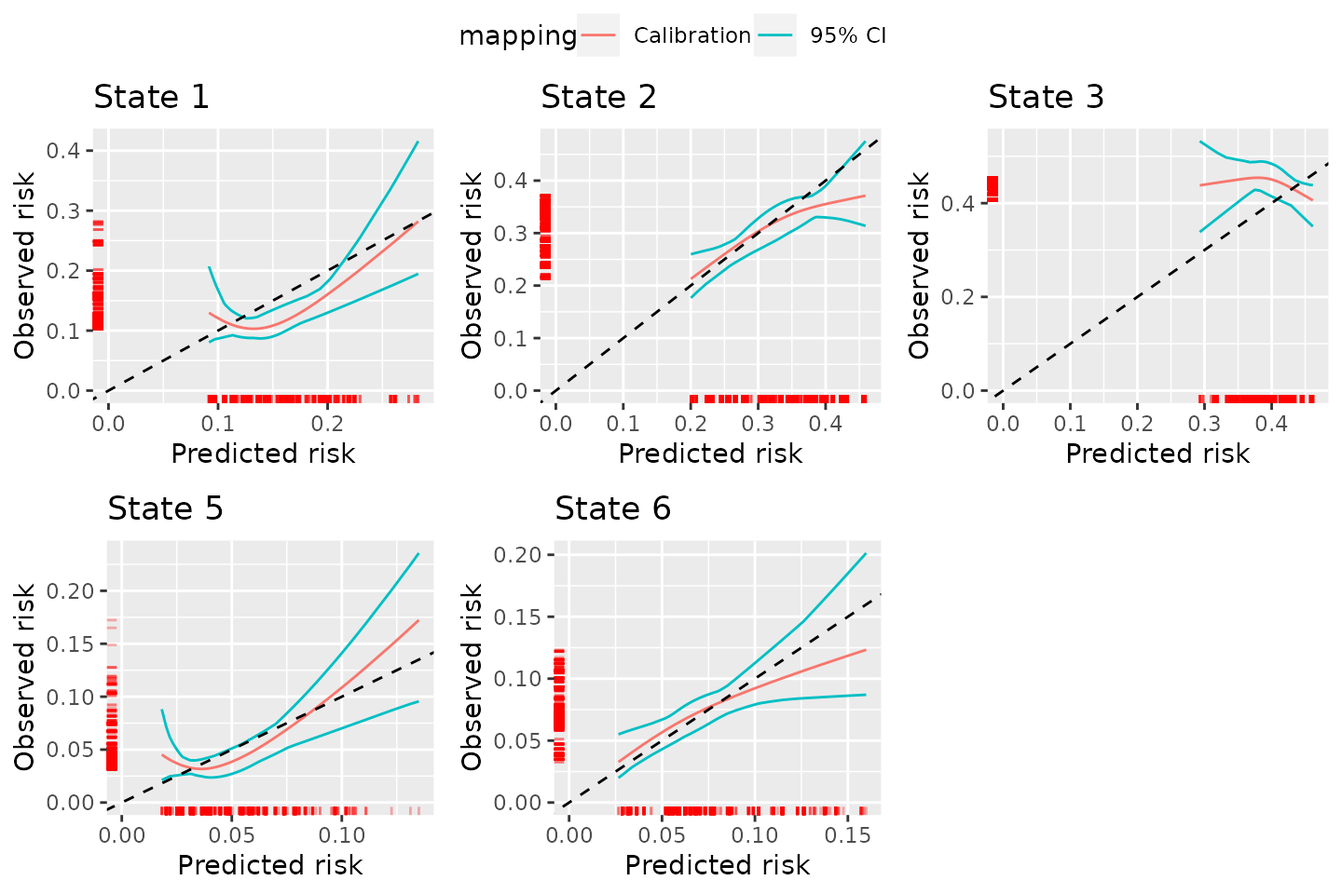
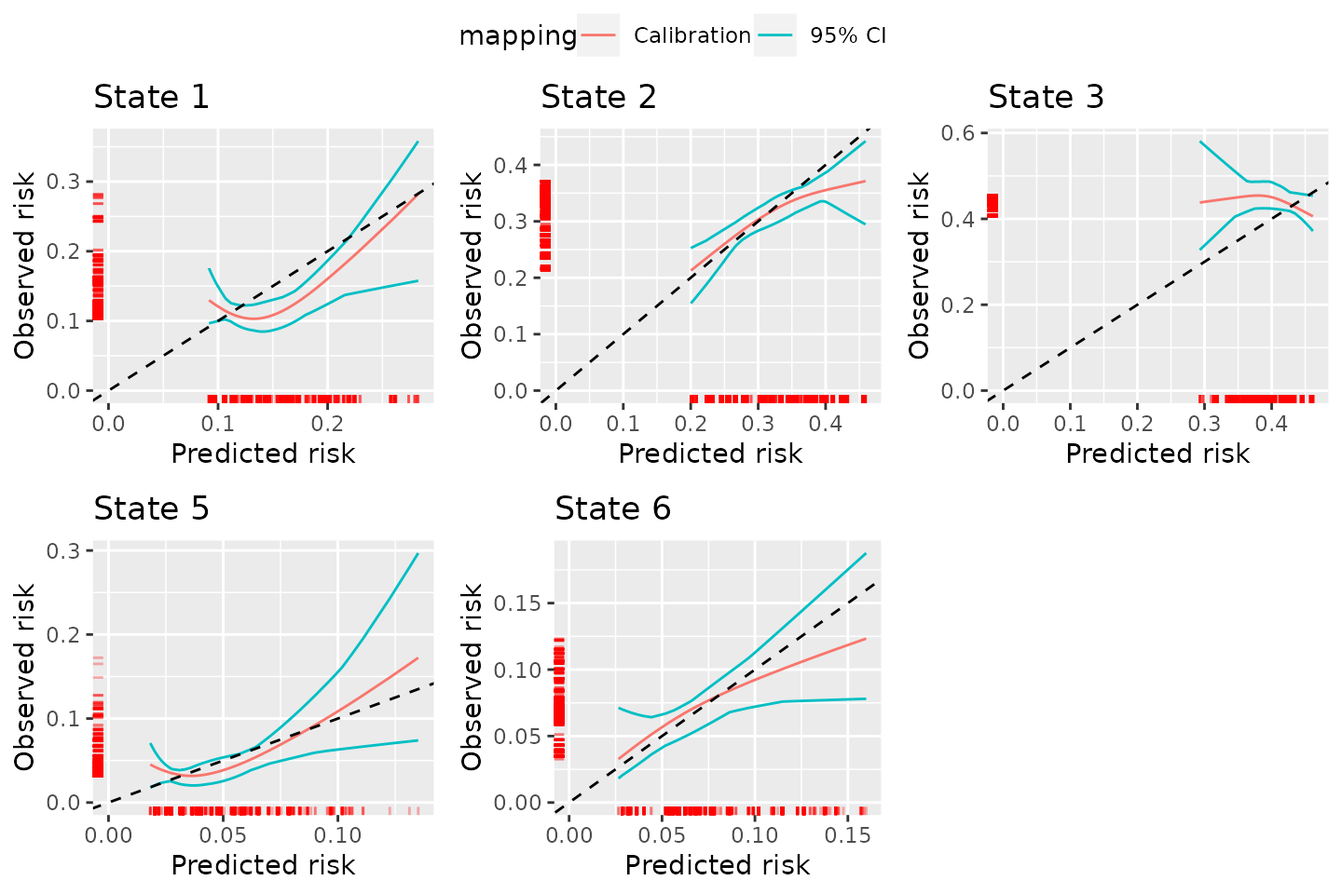
Deploying to gh-pages from @ alexpate30/calibmsm@ba9b57f66726ea3402ec926e26ee4958d6b47412 🚀

diff --git a/articles/Comparison-with-graphical-calibration-curves-in-competing-risks-setting.html b/articles/Comparison-with-graphical-calibration-curves-in-competing-risks-setting.html
@@ -220,7 +220,7 @@ the pseudo-value approach, implemented through
 <span>                 n.pctls <span class="op">=</span> <span class="fl">9</span>,</span>
 <span>                 CI <span class="op">=</span> <span class="fl">95</span>,</span>
 <span>                 CI.type <span class="op">=</span> <span class="st">"parametric"</span><span class="op">)</span></span>
-<span><span class="co">#&gt; [1] "Calculate pseudo values for state =  1 2023-06-08 09:50:20.334606"</span></span>
+<span><span class="co">#&gt; [1] "Calculate pseudo values for state =  1 2023-06-08 10:39:45.719683"</span></span>
 <span><span class="co">#&gt; Warning in mstate::probtrans(msfit.aj, predt = 0): Warning! Negative diagonal elements of (I+dA); the estimate may not be meaningful.</span></span>
 <span></span>
 <span><span class="co">#&gt; Warning in mstate::probtrans(msfit.aj, predt = 0): Warning! Negative diagonal elements of (I+dA); the estimate may not be meaningful.</span></span>
@@ -230,11 +230,11 @@ the pseudo-value approach, implemented through
 <span><span class="co">#&gt; Warning in mstate::probtrans(msfit.aj, predt = 0): Warning! Negative diagonal elements of (I+dA); the estimate may not be meaningful.</span></span>
 <span></span>
 <span><span class="co">#&gt; Warning in mstate::probtrans(msfit.aj, predt = 0): Warning! Negative diagonal elements of (I+dA); the estimate may not be meaningful.</span></span>
-<span><span class="co">#&gt; [1] "Calculate pseudo values for state =  2 2023-06-08 09:54:00.975044"</span></span>
-<span><span class="co">#&gt; [1] "Calculate pseudo values for state =  3 2023-06-08 09:57:41.864137"</span></span>
-<span><span class="co">#&gt; [1] "Calculate pseudo values for state =  5 2023-06-08 10:01:24.42295"</span></span>
+<span><span class="co">#&gt; [1] "Calculate pseudo values for state =  2 2023-06-08 10:43:39.914813"</span></span>
+<span><span class="co">#&gt; [1] "Calculate pseudo values for state =  3 2023-06-08 10:47:34.255154"</span></span>
+<span><span class="co">#&gt; [1] "Calculate pseudo values for state =  5 2023-06-08 10:51:32.279458"</span></span>
 <span><span class="co">#&gt; Warning in mstate::probtrans(msfit.aj, predt = 0): Warning! Negative diagonal elements of (I+dA); the estimate may not be meaningful.</span></span>
-<span><span class="co">#&gt; [1] "Calculate pseudo values for state =  6 2023-06-08 10:05:06.535349"</span></span>
+<span><span class="co">#&gt; [1] "Calculate pseudo values for state =  6 2023-06-08 10:55:27.41275"</span></span>
 <span></span>
 <span><span class="co">### Turn into plot and print</span></span>
 <span><span class="va">plot.calibmsm.pv</span> <span class="op">&lt;-</span> <span class="fu"><a href="https://rdrr.io/r/graphics/plot.default.html" class="external-link">plot</a></span><span class="op">(</span><span class="va">dat.calib.pv</span>, combine <span class="op">=</span> <span class="cn">TRUE</span>, nrow <span class="op">=</span> <span class="fl">2</span>, ncol <span class="op">=</span> <span class="fl">3</span><span class="op">)</span></span></code></pre></div>
@@ -255,131 +255,9 @@ starting state when using pseudo-values
 the graphical calibration curves approach of <span class="citation">Austin et al. (2022)</span>. A custom function is
 written to do this, which estimates the calibration curves and returns a
 list of plots using <code>ggplot2</code>.</p>
-<div class="sourceCode" id="cb6"><pre class="downlit sourceCode r">
-<code class="sourceCode R"><span><span class="va">calc.calib.gcc.mod</span> <span class="op">&lt;-</span> <span class="kw">function</span><span class="op">(</span><span class="va">data.mstate</span>, <span class="va">data.raw</span>, <span class="va">j</span>, <span class="va">s</span>, <span class="va">t.eval</span>, <span class="va">p.est</span>, <span class="va">nk</span> <span class="op">=</span> <span class="fl">3</span><span class="op">)</span><span class="op">{</span></span>
-<span></span>
-<span>        <span class="co"># data.mstate &lt;- msebmtcal.cmprsk</span></span>
-<span>        <span class="co"># data.raw &lt;- ebmtcal</span></span>
-<span>        <span class="co"># p.est &lt;- tp.cmprsk.j0[,paste("pstate", 1:6, sep = "")]</span></span>
-<span>        <span class="co"># j &lt;- 1</span></span>
-<span>        <span class="co"># s &lt;- 0</span></span>
-<span>        <span class="co"># t.eval &lt;- 1826</span></span>
-<span>        <span class="co"># nk &lt;- 3</span></span>
-<span></span>
-<span>  <span class="co">### Assign colnames to p.est</span></span>
-<span>  <span class="fu"><a href="https://rdrr.io/r/base/colnames.html" class="external-link">colnames</a></span><span class="op">(</span><span class="va">p.est</span><span class="op">)</span> <span class="op">&lt;-</span> <span class="fu"><a href="https://rdrr.io/r/base/paste.html" class="external-link">paste</a></span><span class="op">(</span><span class="st">"p.est"</span>, <span class="fl">1</span><span class="op">:</span><span class="fu"><a href="https://rdrr.io/r/base/nrow.html" class="external-link">ncol</a></span><span class="op">(</span><span class="va">p.est</span><span class="op">)</span>, sep <span class="op">=</span> <span class="st">""</span><span class="op">)</span></span>
-<span></span>
-<span>  <span class="co">### Extract what states an individual can move into from state j (states with a non-zero predicted risk)</span></span>
-<span>  <span class="co">### Also drop the staet that an individual is already in, because there is no cmprsk model for staying in the same state</span></span>
-<span>  <span class="va">valid.transitions</span> <span class="op">&lt;-</span> <span class="fu"><a href="https://rdrr.io/r/base/which.html" class="external-link">which</a></span><span class="op">(</span><span class="fu"><a href="https://rdrr.io/r/base/colSums.html" class="external-link">colSums</a></span><span class="op">(</span><span class="va">p.est</span><span class="op">)</span> <span class="op">!=</span> <span class="fl">0</span><span class="op">)</span></span>
-<span>  <span class="va">valid.transitions</span> <span class="op">&lt;-</span> <span class="va">valid.transitions</span><span class="op">[</span><span class="op">-</span><span class="op">(</span><span class="va">valid.transitions</span> <span class="op">==</span> <span class="va">j</span><span class="op">)</span><span class="op">]</span></span>
-<span></span>
-<span>  <span class="co">### Add the predicted risks, and the complementary log log transormation of the predicted risks to data.raw</span></span>
-<span>  <span class="va">p.est.cll</span> <span class="op">&lt;-</span> <span class="fu"><a href="https://rdrr.io/r/base/Log.html" class="external-link">log</a></span><span class="op">(</span><span class="op">-</span><span class="fu"><a href="https://rdrr.io/r/base/Log.html" class="external-link">log</a></span><span class="op">(</span><span class="fl">1</span> <span class="op">-</span> <span class="va">p.est</span><span class="op">[</span>,<span class="va">valid.transitions</span><span class="op">]</span><span class="op">)</span><span class="op">)</span></span>
-<span>  <span class="fu"><a href="https://rdrr.io/r/base/colnames.html" class="external-link">colnames</a></span><span class="op">(</span><span class="va">p.est.cll</span><span class="op">)</span> <span class="op">&lt;-</span> <span class="fu"><a href="https://rdrr.io/r/base/paste.html" class="external-link">paste</a></span><span class="op">(</span><span class="st">"p.est.cll"</span>, <span class="va">valid.transitions</span>, sep <span class="op">=</span> <span class="st">""</span><span class="op">)</span></span>
-<span></span>
-<span>  <span class="co">### Identify individuals who are in state j at time s</span></span>
-<span>  <span class="va">ids.state.j</span> <span class="op">&lt;-</span> <span class="fu">base</span><span class="fu">::</span><span class="fu"><a href="https://rdrr.io/r/base/subset.html" class="external-link">subset</a></span><span class="op">(</span><span class="va">data.mstate</span>, <span class="va">from</span> <span class="op">==</span> <span class="va">j</span> <span class="op">&amp;</span> <span class="va">Tstart</span> <span class="op">&lt;=</span> <span class="va">s</span> <span class="op">&amp;</span> <span class="va">s</span> <span class="op">&lt;</span> <span class="va">Tstop</span><span class="op">)</span> <span class="op">|&gt;</span></span>
-<span>    <span class="fu">dplyr</span><span class="fu">::</span><span class="fu"><a href="https://dplyr.tidyverse.org/reference/select.html" class="external-link">select</a></span><span class="op">(</span><span class="va">id</span><span class="op">)</span> <span class="op">|&gt;</span></span>
-<span>    <span class="fu">dplyr</span><span class="fu">::</span><span class="fu"><a href="https://dplyr.tidyverse.org/reference/distinct.html" class="external-link">distinct</a></span><span class="op">(</span><span class="va">id</span><span class="op">)</span> <span class="op">|&gt;</span></span>
-<span>    <span class="fu">dplyr</span><span class="fu">::</span><span class="fu"><a href="https://dplyr.tidyverse.org/reference/pull.html" class="external-link">pull</a></span><span class="op">(</span><span class="va">id</span><span class="op">)</span></span>
-<span></span>
-<span>  <span class="co">### Subset data.mstate and data.raw to these individuals.</span></span>
-<span>  <span class="va">data.mstate</span> <span class="op">&lt;-</span> <span class="va">data.mstate</span> <span class="op">|&gt;</span> <span class="fu">base</span><span class="fu">::</span><span class="fu"><a href="https://rdrr.io/r/base/subset.html" class="external-link">subset</a></span><span class="op">(</span><span class="va">id</span> <span class="op"><a href="https://rdrr.io/r/base/match.html" class="external-link">%in%</a></span> <span class="va">ids.state.j</span><span class="op">)</span></span>
-<span>  <span class="va">data.raw</span> <span class="op">&lt;-</span> <span class="va">data.raw</span> <span class="op">|&gt;</span> <span class="fu">base</span><span class="fu">::</span><span class="fu"><a href="https://rdrr.io/r/base/subset.html" class="external-link">subset</a></span><span class="op">(</span><span class="va">id</span> <span class="op"><a href="https://rdrr.io/r/base/match.html" class="external-link">%in%</a></span> <span class="va">ids.state.j</span><span class="op">)</span></span>
-<span></span>
-<span>  <span class="co">### Add the cloglog risks and predicted risks to the landmark dataset</span></span>
-<span>  <span class="va">data.raw</span> <span class="op">&lt;-</span> <span class="fu"><a href="https://rdrr.io/r/base/cbind.html" class="external-link">cbind</a></span><span class="op">(</span><span class="va">data.raw</span>, <span class="va">p.est</span><span class="op">[</span>,<span class="va">valid.transitions</span><span class="op">]</span>, <span class="va">p.est.cll</span><span class="op">)</span></span>
-<span></span>
-<span>  <span class="co">### Finally, identify individuals which are censored before experiencing any events (used to maniuplate data for Fine-Gray regression later)</span></span>
-<span>  <span class="va">ids.cens</span>  <span class="op">&lt;-</span> <span class="va">data.mstate</span> <span class="op">|&gt;</span> <span class="fu">base</span><span class="fu">::</span><span class="fu"><a href="https://rdrr.io/r/base/subset.html" class="external-link">subset</a></span><span class="op">(</span><span class="va">from</span> <span class="op">==</span> <span class="va">j</span><span class="op">)</span> <span class="op">|&gt;</span> <span class="fu">dplyr</span><span class="fu">::</span><span class="fu"><a href="https://dplyr.tidyverse.org/reference/group_by.html" class="external-link">group_by</a></span><span class="op">(</span><span class="va">id</span><span class="op">)</span> <span class="op">|&gt;</span> <span class="fu">dplyr</span><span class="fu">::</span><span class="fu"><a href="https://dplyr.tidyverse.org/reference/summarise.html" class="external-link">summarize</a></span><span class="op">(</span>sum <span class="op">=</span> <span class="fu"><a href="https://rdrr.io/r/base/sum.html" class="external-link">sum</a></span><span class="op">(</span><span class="va">status</span><span class="op">)</span><span class="op">)</span> <span class="op">|&gt;</span> <span class="fu">base</span><span class="fu">::</span><span class="fu"><a href="https://rdrr.io/r/base/subset.html" class="external-link">subset</a></span><span class="op">(</span><span class="va">sum</span> <span class="op">==</span> <span class="fl">0</span><span class="op">)</span> <span class="op">|&gt;</span> <span class="fu">dplyr</span><span class="fu">::</span><span class="fu"><a href="https://dplyr.tidyverse.org/reference/pull.html" class="external-link">pull</a></span><span class="op">(</span><span class="va">id</span><span class="op">)</span></span>
-<span></span>
-<span>  <span class="co">###</span></span>
-<span>  <span class="co">### Produce calibration plots for each possible transition</span></span>
-<span>  <span class="co">###</span></span>
-<span></span>
-<span>  <span class="co">### Start by creating a list to store the plots</span></span>
-<span>  <span class="va">plots.list</span> <span class="op">&lt;-</span> <span class="fu"><a href="https://rdrr.io/r/base/vector.html" class="external-link">vector</a></span><span class="op">(</span><span class="st">"list"</span>, <span class="fu"><a href="https://rdrr.io/r/base/length.html" class="external-link">length</a></span><span class="op">(</span><span class="va">valid.transitions</span><span class="op">)</span><span class="op">)</span></span>
-<span></span>
-<span>  <span class="kw">for</span> <span class="op">(</span><span class="va">k</span> <span class="kw">in</span> <span class="fl">1</span><span class="op">:</span><span class="fu"><a href="https://rdrr.io/r/base/length.html" class="external-link">length</a></span><span class="op">(</span><span class="va">valid.transitions</span><span class="op">)</span><span class="op">)</span><span class="op">{</span></span>
-<span></span>
-<span>    <span class="co">### Assign state.k</span></span>
-<span>    <span class="va">state.k</span> <span class="op">&lt;-</span> <span class="fu"><a href="https://rdrr.io/r/base/numeric.html" class="external-link">as.numeric</a></span><span class="op">(</span><span class="va">valid.transitions</span><span class="op">[</span><span class="va">k</span><span class="op">]</span><span class="op">)</span></span>
-<span></span>
-<span>    <span class="co">### Create restricted cubic splines for the cloglog of the linear predictor for the state of interst</span></span>
-<span>    <span class="va">rcs.mat</span> <span class="op">&lt;-</span> <span class="fu">Hmisc</span><span class="fu">::</span><span class="fu"><a href="https://rdrr.io/pkg/Hmisc/man/rcspline.eval.html" class="external-link">rcspline.eval</a></span><span class="op">(</span><span class="va">data.raw</span><span class="op">[</span>,<span class="fu"><a href="https://rdrr.io/r/base/paste.html" class="external-link">paste</a></span><span class="op">(</span><span class="st">"p.est.cll"</span>, <span class="va">state.k</span>, sep <span class="op">=</span> <span class="st">""</span><span class="op">)</span><span class="op">]</span>,nk<span class="op">=</span><span class="va">nk</span>,inclx<span class="op">=</span><span class="cn">T</span><span class="op">)</span></span>
-<span>    <span class="fu"><a href="https://rdrr.io/r/base/colnames.html" class="external-link">colnames</a></span><span class="op">(</span><span class="va">rcs.mat</span><span class="op">)</span> <span class="op">&lt;-</span> <span class="fu"><a href="https://rdrr.io/r/base/paste.html" class="external-link">paste</a></span><span class="op">(</span><span class="st">"rcs.x"</span>, <span class="fl">1</span><span class="op">:</span><span class="fu"><a href="https://rdrr.io/r/base/nrow.html" class="external-link">ncol</a></span><span class="op">(</span><span class="va">rcs.mat</span><span class="op">)</span>, sep <span class="op">=</span> <span class="st">""</span><span class="op">)</span></span>
-<span>    <span class="va">knots</span> <span class="op">&lt;-</span> <span class="fu"><a href="https://rdrr.io/r/base/attr.html" class="external-link">attr</a></span><span class="op">(</span><span class="va">rcs.mat</span>,<span class="st">"knots"</span><span class="op">)</span></span>
-<span></span>
-<span>    <span class="co">### Create a new dataframe for the validation, to avoid recurison with data.raw</span></span>
-<span>    <span class="co">### Add the cubic splines for thecomplementary loglog of the predicted probability, and the predicted probability itself</span></span>
-<span>    <span class="va">valid.df</span> <span class="op">&lt;-</span> <span class="fu"><a href="https://rdrr.io/r/base/data.frame.html" class="external-link">data.frame</a></span><span class="op">(</span><span class="va">data.raw</span><span class="op">$</span><span class="va">id</span>, <span class="va">data.raw</span><span class="op">[</span>,<span class="fu"><a href="https://rdrr.io/r/base/paste.html" class="external-link">paste</a></span><span class="op">(</span><span class="st">"p.est"</span>, <span class="va">state.k</span>, sep <span class="op">=</span> <span class="st">""</span><span class="op">)</span><span class="op">]</span>, <span class="va">rcs.mat</span><span class="op">)</span></span>
-<span>    <span class="fu"><a href="https://rdrr.io/r/base/colnames.html" class="external-link">colnames</a></span><span class="op">(</span><span class="va">valid.df</span><span class="op">)</span> <span class="op">&lt;-</span> <span class="fu"><a href="https://rdrr.io/r/base/c.html" class="external-link">c</a></span><span class="op">(</span><span class="st">"id"</span>, <span class="st">"pred"</span>, <span class="fu"><a href="https://rdrr.io/r/base/colnames.html" class="external-link">colnames</a></span><span class="op">(</span><span class="va">rcs.mat</span><span class="op">)</span><span class="op">)</span></span>
-<span></span>
-<span>    <span class="co">### Want to validate the competing risks model out of state j at time s, into state k, so remove individuals not in state k at time s,</span></span>
-<span>    <span class="co">### and only retain transitions into state k. Also deduct immortal time from time variable</span></span>
-<span>    <span class="va">data.mstate.j.k.s</span> <span class="op">&lt;-</span> <span class="fu">base</span><span class="fu">::</span><span class="fu"><a href="https://rdrr.io/r/base/subset.html" class="external-link">subset</a></span><span class="op">(</span><span class="va">data.mstate</span>, <span class="va">from</span> <span class="op">==</span> <span class="va">j</span> <span class="op">&amp;</span> <span class="va">to</span> <span class="op">==</span> <span class="va">state.k</span> <span class="op">&amp;</span> <span class="va">Tstart</span> <span class="op">&lt;=</span> <span class="va">s</span> <span class="op">&amp;</span> <span class="va">s</span> <span class="op">&lt;</span> <span class="va">Tstop</span><span class="op">)</span> <span class="op">|&gt;</span></span>
-<span>      <span class="fu">dplyr</span><span class="fu">::</span><span class="fu"><a href="https://dplyr.tidyverse.org/reference/mutate.html" class="external-link">mutate</a></span><span class="op">(</span>time <span class="op">=</span> <span class="va">Tstop</span> <span class="op">-</span> <span class="va">s</span><span class="op">)</span> <span class="op">|&gt;</span></span>
-<span>      <span class="fu">dplyr</span><span class="fu">::</span><span class="fu"><a href="https://dplyr.tidyverse.org/reference/select.html" class="external-link">select</a></span><span class="op">(</span><span class="fu"><a href="https://rdrr.io/r/base/c.html" class="external-link">c</a></span><span class="op">(</span><span class="va">time</span>, <span class="va">status</span><span class="op">)</span><span class="op">)</span></span>
-<span></span>
-<span>    <span class="co">### Add to valid.df</span></span>
-<span>    <span class="va">valid.df</span> <span class="op">&lt;-</span> <span class="fu"><a href="https://rdrr.io/r/base/cbind.html" class="external-link">cbind</a></span><span class="op">(</span><span class="va">valid.df</span>, <span class="va">data.mstate.j.k.s</span><span class="op">)</span></span>
-<span></span>
-<span>    <span class="co">### For individuals who do not have the event of interest, and also are not censored (i.e. they have a different competing event),</span></span>
-<span>    <span class="co">### set the follow up time to the maximum</span></span>
-<span>    <span class="va">valid.df</span> <span class="op">&lt;-</span> <span class="fu">dplyr</span><span class="fu">::</span><span class="fu"><a href="https://dplyr.tidyverse.org/reference/mutate.html" class="external-link">mutate</a></span><span class="op">(</span><span class="va">valid.df</span>, time <span class="op">=</span> <span class="fu">dplyr</span><span class="fu">::</span><span class="fu"><a href="https://dplyr.tidyverse.org/reference/case_when.html" class="external-link">case_when</a></span><span class="op">(</span><span class="va">status</span> <span class="op">==</span> <span class="fl">0</span> <span class="op">&amp;</span> <span class="op">!</span><span class="op">(</span><span class="va">id</span> <span class="op"><a href="https://rdrr.io/r/base/match.html" class="external-link">%in%</a></span> <span class="va">ids.cens</span><span class="op">)</span> <span class="op">~</span> <span class="fu"><a href="https://rdrr.io/r/base/Extremes.html" class="external-link">max</a></span><span class="op">(</span><span class="va">time</span><span class="op">)</span>,</span>
-<span>                                                  <span class="cn">TRUE</span> <span class="op">~</span> <span class="va">time</span><span class="op">)</span><span class="op">)</span></span>
-<span></span>
-<span>    <span class="co">### Create dataset to fit the recalibration model of Austin et al (Graphical calibration curves, BMC Diagnostic and Prognostic, DOI10.1186/s41512-021-00114-6)</span></span>
-<span>    <span class="va">valid.df.crprep</span> <span class="op">&lt;-</span> <span class="fu">mstate</span><span class="fu">::</span><span class="fu"><a href="https://rdrr.io/pkg/mstate/man/crprep.default.html" class="external-link">crprep</a></span><span class="op">(</span>Tstop<span class="op">=</span><span class="st">'time'</span>,status<span class="op">=</span><span class="st">'status'</span>,trans<span class="op">=</span><span class="fl">1</span>,</span>
-<span>                              keep<span class="op">=</span><span class="fu"><a href="https://rdrr.io/r/base/colnames.html" class="external-link">colnames</a></span><span class="op">(</span><span class="va">rcs.mat</span><span class="op">)</span>,<span class="va">valid.df</span><span class="op">)</span></span>
-<span></span>
-<span>    <span class="co">### Create formula and fit the Fine-Gray recalibration model</span></span>
-<span>    <span class="va">eq.LHS</span> <span class="op">&lt;-</span> <span class="fu"><a href="https://rdrr.io/r/base/paste.html" class="external-link">paste</a></span><span class="op">(</span><span class="st">"survival::Surv(Tstart,Tstop,status==1)~"</span><span class="op">)</span></span>
-<span>    <span class="va">eq.RHS</span> <span class="op">&lt;-</span> <span class="fu"><a href="https://rdrr.io/r/base/paste.html" class="external-link">paste</a></span><span class="op">(</span><span class="st">"rcs.x"</span>, <span class="fl">1</span><span class="op">:</span><span class="fu"><a href="https://rdrr.io/r/base/nrow.html" class="external-link">ncol</a></span><span class="op">(</span><span class="va">rcs.mat</span><span class="op">)</span>, sep <span class="op">=</span> <span class="st">""</span>, collapse <span class="op">=</span> <span class="st">"+"</span><span class="op">)</span></span>
-<span>    <span class="va">eq</span> <span class="op">&lt;-</span> <span class="fu"><a href="https://rdrr.io/r/stats/formula.html" class="external-link">formula</a></span><span class="op">(</span><span class="fu"><a href="https://rdrr.io/r/base/paste.html" class="external-link">paste</a></span><span class="op">(</span><span class="va">eq.LHS</span>, <span class="va">eq.RHS</span>, sep <span class="op">=</span> <span class="st">""</span><span class="op">)</span><span class="op">)</span></span>
-<span>    <span class="va">model.calibrate.fg</span> <span class="op">&lt;-</span> <span class="fu">rms</span><span class="fu">::</span><span class="fu"><a href="https://rdrr.io/pkg/rms/man/cph.html" class="external-link">cph</a></span><span class="op">(</span><span class="va">eq</span>,weights<span class="op">=</span><span class="va">weight.cens</span>,x<span class="op">=</span><span class="cn">T</span>,y<span class="op">=</span><span class="cn">T</span>,surv<span class="op">=</span><span class="cn">T</span>,data<span class="op">=</span><span class="va">valid.df.crprep</span><span class="op">)</span></span>
-<span></span>
-<span>    <span class="co">### Generate predicted probabilities and standard errors</span></span>
-<span>    <span class="va">valid.df</span><span class="op">$</span><span class="va">obs.fg</span> <span class="op">&lt;-</span> <span class="fl">1</span><span class="op">-</span><span class="fu">rms</span><span class="fu">::</span><span class="fu"><a href="https://rdrr.io/pkg/rms/man/survest.cph.html" class="external-link">survest</a></span><span class="op">(</span><span class="va">model.calibrate.fg</span>,newdata<span class="op">=</span><span class="va">valid.df.crprep</span>,time<span class="op">=</span><span class="va">t.eval</span><span class="op">-</span><span class="va">s</span><span class="op">)</span><span class="op">$</span><span class="va">surv</span></span>
-<span>    <span class="va">valid.df</span><span class="op">$</span><span class="va">obs.fg.upper</span><span class="op">&lt;-</span><span class="fl">1</span><span class="op">-</span><span class="fu">rms</span><span class="fu">::</span><span class="fu"><a href="https://rdrr.io/pkg/rms/man/survest.cph.html" class="external-link">survest</a></span><span class="op">(</span><span class="va">model.calibrate.fg</span>,newdata<span class="op">=</span><span class="va">valid.df.crprep</span>,time<span class="op">=</span><span class="va">t.eval</span><span class="op">-</span><span class="va">s</span><span class="op">)</span><span class="op">$</span><span class="va">lower</span></span>
-<span>    <span class="va">valid.df</span><span class="op">$</span><span class="va">obs.fg.lower</span><span class="op">&lt;-</span><span class="fl">1</span><span class="op">-</span><span class="fu">rms</span><span class="fu">::</span><span class="fu"><a href="https://rdrr.io/pkg/rms/man/survest.cph.html" class="external-link">survest</a></span><span class="op">(</span><span class="va">model.calibrate.fg</span>,newdata<span class="op">=</span><span class="va">valid.df.crprep</span>,time<span class="op">=</span><span class="va">t.eval</span><span class="op">-</span><span class="va">s</span><span class="op">)</span><span class="op">$</span><span class="va">upper</span></span>
-<span></span>
-<span>    <span class="co">### Produce plots for each and store in a list</span></span>
-<span></span>
-<span>    <span class="co">### Pivot longer to create data for ggplot and assign appropriate labels</span></span>
-<span>    <span class="va">valid.df.longer</span> <span class="op">&lt;-</span> <span class="fu">tidyr</span><span class="fu">::</span><span class="fu"><a href="https://tidyr.tidyverse.org/reference/pivot_longer.html" class="external-link">pivot_longer</a></span><span class="op">(</span><span class="va">valid.df</span>, cols <span class="op">=</span> <span class="fu"><a href="https://rdrr.io/r/base/c.html" class="external-link">c</a></span><span class="op">(</span><span class="va">obs.fg</span>, <span class="va">obs.fg.upper</span>, <span class="va">obs.fg.lower</span><span class="op">)</span>, names_to <span class="op">=</span> <span class="st">"line.group"</span><span class="op">)</span></span>
-<span>    <span class="va">valid.df.longer</span> <span class="op">&lt;-</span> <span class="fu">dplyr</span><span class="fu">::</span><span class="fu"><a href="https://dplyr.tidyverse.org/reference/mutate.html" class="external-link">mutate</a></span><span class="op">(</span><span class="va">valid.df.longer</span>,</span>
-<span>                              line.group <span class="op">=</span> <span class="fu"><a href="https://rdrr.io/r/base/factor.html" class="external-link">factor</a></span><span class="op">(</span><span class="va">line.group</span><span class="op">)</span>,</span>
-<span>                              mapping <span class="op">=</span> <span class="fu">dplyr</span><span class="fu">::</span><span class="fu"><a href="https://dplyr.tidyverse.org/reference/case_when.html" class="external-link">case_when</a></span><span class="op">(</span><span class="va">line.group</span> <span class="op">==</span> <span class="st">"obs.fg"</span> <span class="op">~</span> <span class="fl">1</span>,</span>
-<span>                                                  <span class="va">line.group</span> <span class="op"><a href="https://rdrr.io/r/base/match.html" class="external-link">%in%</a></span> <span class="fu"><a href="https://rdrr.io/r/base/c.html" class="external-link">c</a></span><span class="op">(</span><span class="st">"obs.fg.upper"</span>, <span class="st">"obs.fg.lower"</span><span class="op">)</span> <span class="op">~</span> <span class="fl">2</span><span class="op">)</span>,</span>
-<span>                              mapping <span class="op">=</span> <span class="fu"><a href="https://rdrr.io/r/base/factor.html" class="external-link">factor</a></span><span class="op">(</span><span class="va">mapping</span><span class="op">)</span><span class="op">)</span></span>
-<span></span>
-<span>    <span class="fu"><a href="https://rdrr.io/r/base/levels.html" class="external-link">levels</a></span><span class="op">(</span><span class="va">valid.df.longer</span><span class="op">$</span><span class="va">line.group</span><span class="op">)</span> <span class="op">&lt;-</span> <span class="fu"><a href="https://rdrr.io/r/base/c.html" class="external-link">c</a></span><span class="op">(</span><span class="st">"Calibration"</span>, <span class="st">"Upper"</span>, <span class="st">"Lower"</span><span class="op">)</span></span>
-<span>    <span class="fu"><a href="https://rdrr.io/r/base/levels.html" class="external-link">levels</a></span><span class="op">(</span><span class="va">valid.df.longer</span><span class="op">$</span><span class="va">mapping</span><span class="op">)</span> <span class="op">&lt;-</span> <span class="fu"><a href="https://rdrr.io/r/base/c.html" class="external-link">c</a></span><span class="op">(</span><span class="st">"Calibration"</span>, <span class="st">"95% CI"</span><span class="op">)</span></span>
-<span></span>
-<span>    <span class="co">### Create the plot</span></span>
-<span>    <span class="va">plots.list</span><span class="op">[[</span><span class="va">k</span><span class="op">]</span><span class="op">]</span> <span class="op">&lt;-</span> <span class="fu">ggplot2</span><span class="fu">::</span><span class="fu"><a href="https://ggplot2.tidyverse.org/reference/ggplot.html" class="external-link">ggplot</a></span><span class="op">(</span>data <span class="op">=</span> <span class="va">valid.df.longer</span> <span class="op">|&gt;</span> <span class="fu">dplyr</span><span class="fu">::</span><span class="fu"><a href="https://dplyr.tidyverse.org/reference/arrange.html" class="external-link">arrange</a></span><span class="op">(</span><span class="va">pred</span><span class="op">)</span> <span class="op">|&gt;</span> <span class="fu">dplyr</span><span class="fu">::</span><span class="fu"><a href="https://dplyr.tidyverse.org/reference/select.html" class="external-link">select</a></span><span class="op">(</span><span class="va">id</span>, <span class="va">pred</span>, <span class="va">line.group</span>, <span class="va">value</span>, <span class="va">mapping</span><span class="op">)</span><span class="op">)</span> <span class="op">+</span></span>
-<span>      <span class="fu">ggplot2</span><span class="fu">::</span><span class="fu"><a href="https://ggplot2.tidyverse.org/reference/geom_path.html" class="external-link">geom_line</a></span><span class="op">(</span><span class="fu">ggplot2</span><span class="fu">::</span><span class="fu"><a href="https://ggplot2.tidyverse.org/reference/aes.html" class="external-link">aes</a></span><span class="op">(</span>x <span class="op">=</span> <span class="va">pred</span>, y <span class="op">=</span> <span class="va">value</span>, group <span class="op">=</span> <span class="va">line.group</span>, color <span class="op">=</span> <span class="va">mapping</span><span class="op">)</span><span class="op">)</span> <span class="op">+</span></span>
-<span>      <span class="fu">ggplot2</span><span class="fu">::</span><span class="fu"><a href="https://ggplot2.tidyverse.org/reference/geom_abline.html" class="external-link">geom_abline</a></span><span class="op">(</span>intercept <span class="op">=</span> <span class="fl">0</span>, slope <span class="op">=</span> <span class="fl">1</span>, linetype <span class="op">=</span> <span class="st">"dashed"</span><span class="op">)</span> <span class="op">+</span></span>
-<span>      <span class="fu">ggplot2</span><span class="fu">::</span><span class="fu"><a href="https://ggplot2.tidyverse.org/reference/labs.html" class="external-link">xlab</a></span><span class="op">(</span><span class="st">"Predicted risk"</span><span class="op">)</span> <span class="op">+</span> <span class="fu">ggplot2</span><span class="fu">::</span><span class="fu"><a href="https://ggplot2.tidyverse.org/reference/labs.html" class="external-link">ylab</a></span><span class="op">(</span><span class="st">"Observed risk"</span><span class="op">)</span> <span class="op">+</span></span>
-<span>      <span class="fu">ggplot2</span><span class="fu">::</span><span class="fu"><a href="https://ggplot2.tidyverse.org/reference/lims.html" class="external-link">xlim</a></span><span class="op">(</span><span class="fu"><a href="https://rdrr.io/r/base/c.html" class="external-link">c</a></span><span class="op">(</span><span class="fl">0</span>, <span class="fu"><a href="https://rdrr.io/r/base/Extremes.html" class="external-link">max</a></span><span class="op">(</span><span class="va">valid.df.longer</span><span class="op">$</span><span class="va">pred</span>,</span>
-<span>                    <span class="va">valid.df.longer</span><span class="op">$</span><span class="va">value</span><span class="op">)</span><span class="op">)</span><span class="op">)</span> <span class="op">+</span></span>
-<span>      <span class="fu">ggplot2</span><span class="fu">::</span><span class="fu"><a href="https://ggplot2.tidyverse.org/reference/lims.html" class="external-link">ylim</a></span><span class="op">(</span><span class="fu"><a href="https://rdrr.io/r/base/c.html" class="external-link">c</a></span><span class="op">(</span><span class="fl">0</span>, <span class="fu"><a href="https://rdrr.io/r/base/Extremes.html" class="external-link">max</a></span><span class="op">(</span><span class="va">valid.df.longer</span><span class="op">$</span><span class="va">pred</span>,</span>
-<span>                    <span class="va">valid.df.longer</span><span class="op">$</span><span class="va">value</span><span class="op">)</span><span class="op">)</span><span class="op">)</span> <span class="op">+</span></span>
-<span>      <span class="fu">ggplot2</span><span class="fu">::</span><span class="fu"><a href="https://ggplot2.tidyverse.org/reference/geom_rug.html" class="external-link">geom_rug</a></span><span class="op">(</span>data <span class="op">=</span> <span class="va">valid.df.longer</span> <span class="op">|&gt;</span> <span class="fu">dplyr</span><span class="fu">::</span><span class="fu"><a href="https://dplyr.tidyverse.org/reference/arrange.html" class="external-link">arrange</a></span><span class="op">(</span><span class="va">pred</span><span class="op">)</span> <span class="op">|&gt;</span> <span class="fu">dplyr</span><span class="fu">::</span><span class="fu"><a href="https://dplyr.tidyverse.org/reference/select.html" class="external-link">select</a></span><span class="op">(</span><span class="va">id</span>, <span class="va">pred</span>, <span class="va">line.group</span>, <span class="va">value</span>, <span class="va">mapping</span><span class="op">)</span> <span class="op">|&gt;</span> <span class="fu">base</span><span class="fu">::</span><span class="fu"><a href="https://rdrr.io/r/base/subset.html" class="external-link">subset</a></span><span class="op">(</span><span class="va">line.group</span> <span class="op">==</span> <span class="st">"Calibration"</span><span class="op">)</span>,</span>
-<span>                        <span class="fu">ggplot2</span><span class="fu">::</span><span class="fu"><a href="https://ggplot2.tidyverse.org/reference/aes.html" class="external-link">aes</a></span><span class="op">(</span>x <span class="op">=</span> <span class="va">pred</span>, y <span class="op">=</span> <span class="va">value</span><span class="op">)</span>, col <span class="op">=</span> <span class="fu">grDevices</span><span class="fu">::</span><span class="fu"><a href="https://rdrr.io/r/grDevices/rgb.html" class="external-link">rgb</a></span><span class="op">(</span><span class="fl">1</span>, <span class="fl">0</span>, <span class="fl">0</span>, alpha <span class="op">=</span> <span class="fl">.1</span><span class="op">)</span><span class="op">)</span> <span class="op">+</span></span>
-<span>      <span class="fu">ggplot2</span><span class="fu">::</span><span class="fu"><a href="https://ggplot2.tidyverse.org/reference/theme.html" class="external-link">theme</a></span><span class="op">(</span>legend.position <span class="op">=</span> <span class="st">"none"</span><span class="op">)</span> <span class="op">+</span></span>
-<span>      <span class="fu">ggplot2</span><span class="fu">::</span><span class="fu"><a href="https://ggplot2.tidyverse.org/reference/labs.html" class="external-link">ggtitle</a></span><span class="op">(</span><span class="fu"><a href="https://rdrr.io/r/base/paste.html" class="external-link">paste</a></span><span class="op">(</span><span class="st">"State "</span>, <span class="va">state.k</span>, sep <span class="op">=</span> <span class="st">""</span><span class="op">)</span><span class="op">)</span></span>
-<span></span>
-<span>  <span class="op">}</span></span>
-<span></span>
-<span>  <span class="co">### Return plots</span></span>
-<span>  <span class="kw"><a href="https://rdrr.io/r/base/function.html" class="external-link">return</a></span><span class="op">(</span><span class="va">plots.list</span><span class="op">)</span></span>
-<span><span class="op">}</span></span></code></pre></div>
 <p>This function is then applied to estimate the calibration curves and
 create the plots.</p>
-<div class="sourceCode" id="cb7"><pre class="downlit sourceCode r">
+<div class="sourceCode" id="cb6"><pre class="downlit sourceCode r">
 <code class="sourceCode R"><span><span class="co">### Estimate calibration curves and create plots</span></span>
 <span><span class="va">plot.gcc.rcs.list</span> <span class="op">&lt;-</span> <span class="fu">calc.calib.gcc.mod</span><span class="op">(</span>data.mstate <span class="op">=</span> <span class="va">msebmtcal.cmprsk</span>,</span>
 <span>                                    data.raw <span class="op">=</span> <span class="va">ebmtcal</span>,</span>
@@ -391,7 +269,7 @@ create the plots.</p>
 <span></span>
 <span><span class="co">### Combine into one plot and print</span></span>
 <span><span class="va">plot.gcc.rcs</span> <span class="op">&lt;-</span> <span class="fu">ggpubr</span><span class="fu">::</span><span class="fu"><a href="https://rpkgs.datanovia.com/ggpubr/reference/ggarrange.html" class="external-link">ggarrange</a></span><span class="op">(</span>plotlist <span class="op">=</span> <span class="va">plot.gcc.rcs.list</span><span class="op">)</span></span></code></pre></div>
-<div class="sourceCode" id="cb8"><pre class="downlit sourceCode r">
+<div class="sourceCode" id="cb7"><pre class="downlit sourceCode r">
 <code class="sourceCode R"><span><span class="va">plot.gcc.rcs</span></span></code></pre></div>
 <div class="figure">
 <p class="caption">

diff --git a/reference/calc_calib_blr.html b/reference/calc_calib_blr.html
@@ -247,38 +247,38 @@ in the vignette XXXX.</p>
 <span class="r-out co"><span class="r-pr">#&gt;</span>   .. ..$ id       : int [1:1778] 2 4 5 7 10 13 14 16 18 19 ...</span>
 <span class="r-out co"><span class="r-pr">#&gt;</span>   .. ..$ pred     : num [1:1778] 0.114 0.1384 0.1233 0.0974 0.1137 ...</span>
 <span class="r-out co"><span class="r-pr">#&gt;</span>   .. ..$ obs      : num [1:1778] 0.11 0.104 0.105 0.124 0.11 ...</span>
-<span class="r-out co"><span class="r-pr">#&gt;</span>   .. ..$ obs.lower: num [1:1778] 0.0884 0.0799 0.0865 0.0894 0.0887 ...</span>
-<span class="r-out co"><span class="r-pr">#&gt;</span>   .. ..$ obs.upper: num [1:1778] 0.136 0.13 0.13 0.17 0.136 ...</span>
+<span class="r-out co"><span class="r-pr">#&gt;</span>   .. ..$ obs.lower: num [1:1778] 0.087 0.0788 0.084 0.0863 0.0871 ...</span>
+<span class="r-out co"><span class="r-pr">#&gt;</span>   .. ..$ obs.upper: num [1:1778] 0.134 0.126 0.124 0.163 0.134 ...</span>
 <span class="r-out co"><span class="r-pr">#&gt;</span>   ..$ state2:'data.frame':	1778 obs. of  5 variables:</span>
 <span class="r-out co"><span class="r-pr">#&gt;</span>   .. ..$ id       : int [1:1778] 2 4 5 7 10 13 14 16 18 19 ...</span>
 <span class="r-out co"><span class="r-pr">#&gt;</span>   .. ..$ pred     : num [1:1778] 0.232 0.184 0.161 0.212 0.232 ...</span>
 <span class="r-out co"><span class="r-pr">#&gt;</span>   .. ..$ obs      : num [1:1778] 0.17 0.186 0.176 0.179 0.17 ...</span>
-<span class="r-out co"><span class="r-pr">#&gt;</span>   .. ..$ obs.lower: num [1:1778] 0.119 0.155 0.146 0.145 0.119 ...</span>
-<span class="r-out co"><span class="r-pr">#&gt;</span>   .. ..$ obs.upper: num [1:1778] 0.221 0.222 0.212 0.207 0.22 ...</span>
+<span class="r-out co"><span class="r-pr">#&gt;</span>   .. ..$ obs.lower: num [1:1778] 0.118 0.158 0.145 0.147 0.119 ...</span>
+<span class="r-out co"><span class="r-pr">#&gt;</span>   .. ..$ obs.upper: num [1:1778] 0.223 0.22 0.22 0.214 0.222 ...</span>
 <span class="r-out co"><span class="r-pr">#&gt;</span>   ..$ state3:'data.frame':	1778 obs. of  5 variables:</span>
 <span class="r-out co"><span class="r-pr">#&gt;</span>   .. ..$ id       : int [1:1778] 2 4 5 7 10 13 14 16 18 19 ...</span>
 <span class="r-out co"><span class="r-pr">#&gt;</span>   .. ..$ pred     : num [1:1778] 0.0844 0.0758 0.0551 0.0615 0.0844 ...</span>
 <span class="r-out co"><span class="r-pr">#&gt;</span>   .. ..$ obs      : num [1:1778] 0.1249 0.1167 0.0919 0.1001 0.1248 ...</span>
-<span class="r-out co"><span class="r-pr">#&gt;</span>   .. ..$ obs.lower: num [1:1778] 0.0979 0.0908 0.0537 0.0668 0.0979 ...</span>
-<span class="r-out co"><span class="r-pr">#&gt;</span>   .. ..$ obs.upper: num [1:1778] 0.152 0.14 0.136 0.131 0.152 ...</span>
+<span class="r-out co"><span class="r-pr">#&gt;</span>   .. ..$ obs.lower: num [1:1778] 0.0999 0.0907 0.0461 0.0609 0.0999 ...</span>
+<span class="r-out co"><span class="r-pr">#&gt;</span>   .. ..$ obs.upper: num [1:1778] 0.158 0.149 0.141 0.136 0.158 ...</span>
 <span class="r-out co"><span class="r-pr">#&gt;</span>   ..$ state4:'data.frame':	1778 obs. of  5 variables:</span>
 <span class="r-out co"><span class="r-pr">#&gt;</span>   .. ..$ id       : int [1:1778] 2 4 5 7 10 13 14 16 18 19 ...</span>
 <span class="r-out co"><span class="r-pr">#&gt;</span>   .. ..$ pred     : num [1:1778] 0.233 0.218 0.183 0.221 0.233 ...</span>
 <span class="r-out co"><span class="r-pr">#&gt;</span>   .. ..$ obs      : num [1:1778] 0.243 0.224 0.185 0.228 0.243 ...</span>
-<span class="r-out co"><span class="r-pr">#&gt;</span>   .. ..$ obs.lower: num [1:1778] 0.209 0.191 0.153 0.195 0.209 ...</span>
-<span class="r-out co"><span class="r-pr">#&gt;</span>   .. ..$ obs.upper: num [1:1778] 0.281 0.256 0.217 0.26 0.281 ...</span>
+<span class="r-out co"><span class="r-pr">#&gt;</span>   .. ..$ obs.lower: num [1:1778] 0.204 0.197 0.158 0.2 0.204 ...</span>
+<span class="r-out co"><span class="r-pr">#&gt;</span>   .. ..$ obs.upper: num [1:1778] 0.28 0.254 0.217 0.259 0.279 ...</span>
 <span class="r-out co"><span class="r-pr">#&gt;</span>   ..$ state5:'data.frame':	1778 obs. of  5 variables:</span>
 <span class="r-out co"><span class="r-pr">#&gt;</span>   .. ..$ id       : int [1:1778] 2 4 5 7 10 13 14 16 18 19 ...</span>
 <span class="r-out co"><span class="r-pr">#&gt;</span>   .. ..$ pred     : num [1:1778] 0.148 0.154 0.143 0.144 0.149 ...</span>
 <span class="r-out co"><span class="r-pr">#&gt;</span>   .. ..$ obs      : num [1:1778] 0.191 0.165 0.222 0.212 0.188 ...</span>
-<span class="r-out co"><span class="r-pr">#&gt;</span>   .. ..$ obs.lower: num [1:1778] 0.164 0.149 0.179 0.175 0.163 ...</span>
-<span class="r-out co"><span class="r-pr">#&gt;</span>   .. ..$ obs.upper: num [1:1778] 0.216 0.185 0.258 0.245 0.212 ...</span>
+<span class="r-out co"><span class="r-pr">#&gt;</span>   .. ..$ obs.lower: num [1:1778] 0.166 0.148 0.179 0.175 0.164 ...</span>
+<span class="r-out co"><span class="r-pr">#&gt;</span>   .. ..$ obs.upper: num [1:1778] 0.221 0.186 0.272 0.257 0.216 ...</span>
 <span class="r-out co"><span class="r-pr">#&gt;</span>   ..$ state6:'data.frame':	1778 obs. of  5 variables:</span>
 <span class="r-out co"><span class="r-pr">#&gt;</span>   .. ..$ id       : int [1:1778] 2 4 5 7 10 13 14 16 18 19 ...</span>
 <span class="r-out co"><span class="r-pr">#&gt;</span>   .. ..$ pred     : num [1:1778] 0.189 0.23 0.335 0.264 0.189 ...</span>
 <span class="r-out co"><span class="r-pr">#&gt;</span>   .. ..$ obs      : num [1:1778] 0.207 0.254 0.316 0.28 0.207 ...</span>
-<span class="r-out co"><span class="r-pr">#&gt;</span>   .. ..$ obs.lower: num [1:1778] 0.185 0.23 0.274 0.254 0.185 ...</span>
-<span class="r-out co"><span class="r-pr">#&gt;</span>   .. ..$ obs.upper: num [1:1778] 0.231 0.279 0.352 0.305 0.231 ...</span>
+<span class="r-out co"><span class="r-pr">#&gt;</span>   .. ..$ obs.lower: num [1:1778] 0.186 0.231 0.284 0.258 0.186 ...</span>
+<span class="r-out co"><span class="r-pr">#&gt;</span>   .. ..$ obs.upper: num [1:1778] 0.232 0.28 0.353 0.305 0.232 ...</span>
 <span class="r-out co"><span class="r-pr">#&gt;</span>  $ metadata:List of 8</span>
 <span class="r-out co"><span class="r-pr">#&gt;</span>   ..$ valid.transitions   : num [1:6] 1 2 3 4 5 6</span>
 <span class="r-out co"><span class="r-pr">#&gt;</span>   ..$ assessed.transitions: num [1:6] 1 2 3 4 5 6</span>
